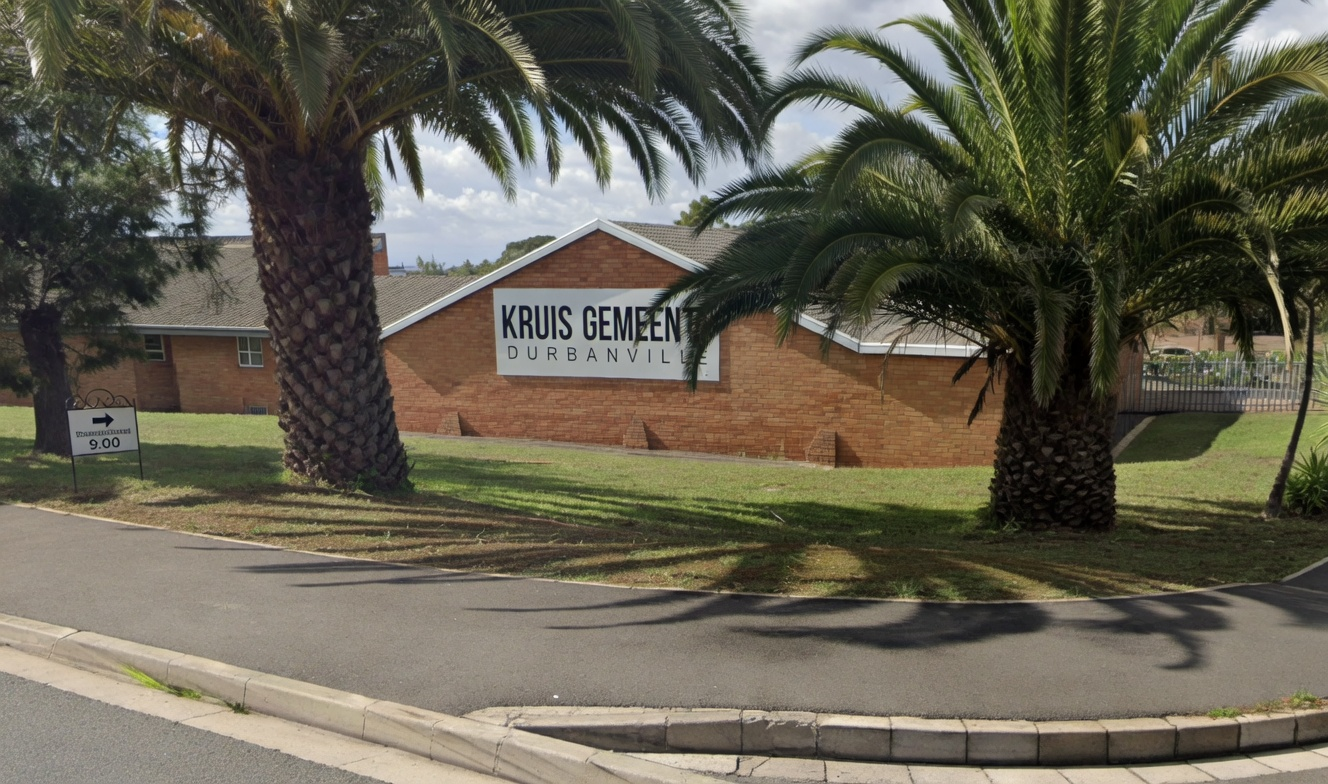
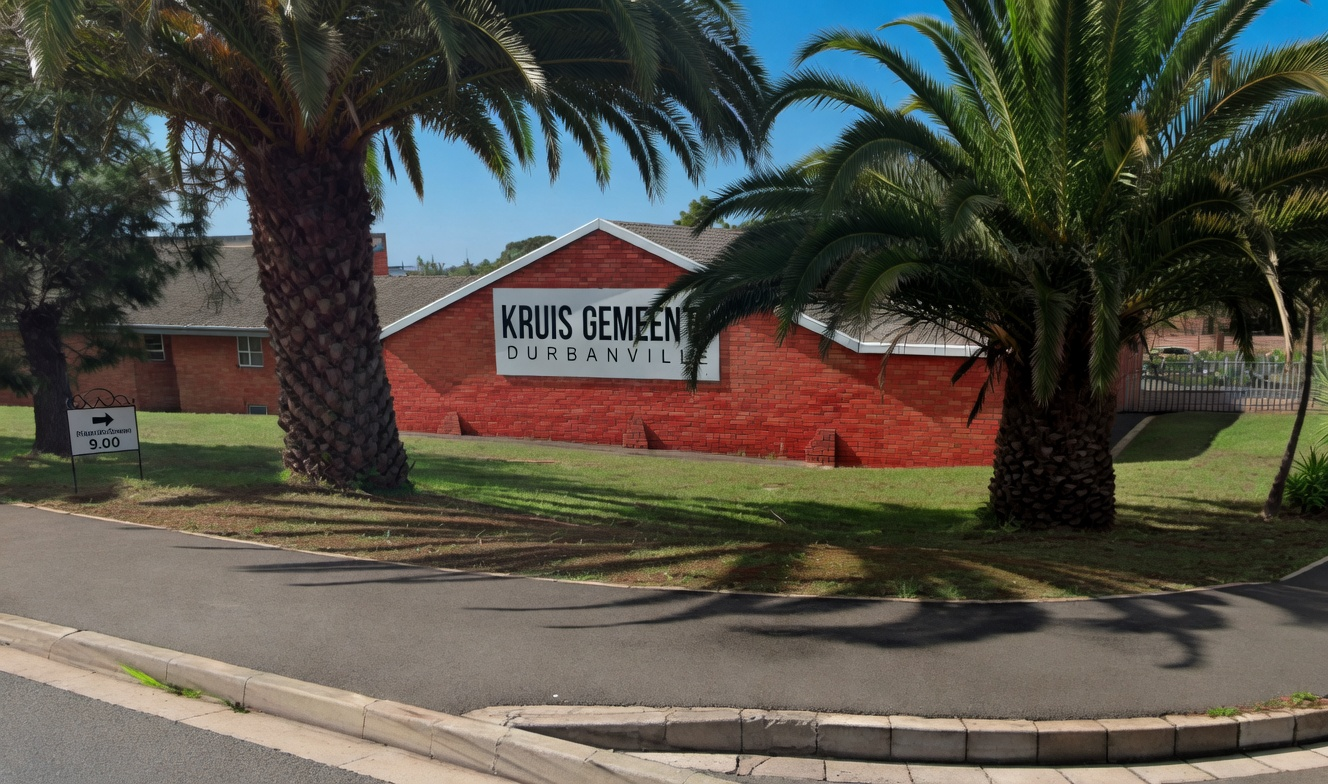
Hide other pages, play a cross when the book opens, and use cleaner church photos.

diff --git a/styles.css b/styles.css
@@ -70,10 +70,37 @@ button, input, textarea { font: inherit; }
 }
 .toc button:hover { color: var(--gold-2); }
 
+.intro {
+  position: fixed; inset: 0; z-index: 70;
+  background: #03050a;
+  display: grid; place-items: center;
+  gap: 28px; color: var(--gold-2);
+  text-align: center;
+}
+.intro[hidden] { display: none; }
+.cross-draw {
+  width: min(160px, 36vw); height: auto;
+  stroke: #e8c56a; stroke-width: 5; fill: none; stroke-linecap: square;
+  filter: drop-shadow(0 0 18px rgba(232,197,106,0.0));
+  stroke-dasharray: 320;
+  stroke-dashoffset: 320;
+}
+.intro.play .cross-draw {
+  animation: draw 1.6s ease forwards, crossglow 1.2s ease 1.2s forwards;
+}
+.intro p {
+  font-style: italic; font-size: 1.15rem; opacity: 0;
+}
+.intro.play p { animation: fadein 0.8s ease 1.3s forwards; }
+.intro.out { animation: fadeout 0.45s ease forwards; }
+@keyframes draw { to { stroke-dashoffset: 0; } }
+@keyframes crossglow { to { filter: drop-shadow(0 0 28px rgba(232,197,106,0.95)); } }
+@keyframes fadein { to { opacity: 1; } }
+@keyframes fadeout { to { opacity: 0; } }
+
 .stage {
   position: fixed; inset: 56px 0 68px;
   overflow: hidden;
-  perspective: 2600px;
   background: radial-gradient(900px 500px at 50% 0%, rgba(232,197,106,0.16), transparent 60%), #03050a;
 }
 #dust {
@@ -94,22 +121,46 @@ button, input, textarea { font: inherit; }
 .book {
   position: relative; z-index: 2;
   width: 100%; height: 100%;
-  transform-style: preserve-3d;
 }
 .leaf {
   position: absolute; inset: 0;
   width: 100%; height: 100%;
   overflow: auto;
   display: flex;
-  transform-origin: left center;
-  transform: rotateY(0deg);
-  transition: transform 1.05s cubic-bezier(0.77, 0, 0.18, 1);
-  backface-visibility: hidden;
-  box-shadow: 18px 0 60px rgba(0,0,0,0.35);
-}
-.leaf.flipped {
-  transform: rotateY(-180deg);
+  opacity: 0;
+  visibility: hidden;
   pointer-events: none;
+  z-index: 0;
+}
+.leaf.on {
+  opacity: 1;
+  visibility: visible;
+  pointer-events: auto;
+  z-index: 2;
+}
+.leaf.leave {
+  z-index: 3;
+  animation: leave 0.55s ease forwards;
+}
+.leaf.enter {
+  z-index: 4;
+  animation: enter 0.55s ease forwards;
+}
+.leaf.leave.back { animation-name: leaveBack; }
+.leaf.enter.back { animation-name: enterBack; }
+@keyframes leave {
+  to { opacity: 0; transform: translateX(-48px) scale(0.98); }
+}
+@keyframes enter {
+  from { opacity: 0; transform: translateX(56px) scale(0.98); }
+  to { opacity: 1; transform: none; }
+}
+@keyframes leaveBack {
+  to { opacity: 0; transform: translateX(48px) scale(0.98); }
+}
+@keyframes enterBack {
+  from { opacity: 0; transform: translateX(-56px) scale(0.98); }
+  to { opacity: 1; transform: none; }
 }
 
 .cover {
@@ -165,17 +216,7 @@ button, input, textarea { font: inherit; }
   font-family: var(--sans); font-size: 0.8rem; letter-spacing: 0.14em;
   margin: 18px 0 28px; color: rgba(247, 231, 180, 0.85);
 }
-.hint {
-  position: absolute; right: 0; bottom: 0; width: 72px; height: 72px;
-  background: linear-gradient(135deg, transparent 50%, rgba(232,197,106,0.55) 50%);
-  clip-path: polygon(100% 0, 0 100%, 100% 100%);
-  animation: peek 2.4s ease-in-out infinite;
-  z-index: 3;
-}
-@keyframes peek {
-  0%, 100% { opacity: 0.45; }
-  50% { opacity: 1; }
-}
+
 
 .spread { display: flex; width: 100%; }
 .page {
@@ -346,5 +387,6 @@ input:focus, textarea:focus { outline: 2px solid var(--gold); border-color: tran
   .leaf { transform-origin: center left; }
 }
 @media (prefers-reduced-motion: reduce) {
-  .leaf, .cover-art, .cover-inner, .glow, .hint, .time-clock, .cover h1, .page.left::after { animation: none; transition: none; }
+  .leaf, .cover-art, .cover-inner, .glow, .time-clock, .cover h1, .page.left::after, .cross-draw, .intro p { animation: none; transition: none; }
+  .cross-draw { stroke-dashoffset: 0; }
 }

diff --git a/index.html b/index.html
@@ -64,6 +64,14 @@
     <button type="button" data-go="8">IX. <span data-i18n="pWrite">Skryf</span></button>
   </nav>
 
+  <div class="intro" id="intro" hidden>
+    <svg class="cross-draw" viewBox="0 0 100 160" aria-hidden="true">
+      <line x1="50" y1="8" x2="50" y2="152" />
+      <line x1="16" y1="46" x2="84" y2="46" />
+    </svg>
+    <p data-i18n="coverSub">Jesus Christus, gekruisig en opgestaan</p>
+  </div>
+
   <div class="stage">
     <canvas id="dust"></canvas>
     <div class="glow"></div>
@@ -80,7 +88,6 @@
           <p class="cover-meta">Sondag 09:00 · Afrikaans · Vergesig</p>
           <button class="btn btn-gold" type="button" id="openBtn" data-i18n="openBtn">Maak die boek oop</button>
         </div>
-        <span class="hint" aria-hidden="true"></span>
       </section>
 
       <section class="leaf spread" data-leaf="1" id="woord">
@@ -354,17 +361,49 @@
     }
 
     const leaves = [...document.querySelectorAll(".leaf")];
-    function go(n) {
-      page = Math.max(0, Math.min(PAGES - 1, n));
-      leaves.forEach((el, i) => {
-        el.classList.toggle("flipped", i < page);
-        el.style.zIndex = String(i < page ? i : PAGES - i);
-        el.setAttribute("aria-hidden", i === page ? "false" : "true");
-      });
-      drawPager();
+    let turning = false;
+    function go(n, instant) {
+      n = Math.max(0, Math.min(PAGES - 1, n));
+      if (n === page && leaves[page].classList.contains("on")) return;
+      if (turning) return;
       toc.setAttribute("hidden", "");
-      const leaf = leaves[page];
-      if (leaf) leaf.scrollTop = 0;
+      const from = leaves[page];
+      const to = leaves[n];
+      if (instant || !from.classList.contains("on")) {
+        leaves.forEach((el) => el.classList.remove("on", "leave", "enter"));
+        to.classList.add("on");
+        page = n;
+        drawPager();
+        return;
+      }
+      turning = true;
+      const forward = n > page;
+      from.classList.add("leave");
+      from.classList.toggle("back", !forward);
+      to.classList.add("on", "enter");
+      to.classList.toggle("back", !forward);
+      to.scrollTop = 0;
+      setTimeout(() => {
+        from.classList.remove("on", "leave", "back");
+        to.classList.remove("enter", "back");
+        page = n;
+        turning = false;
+        drawPager();
+      }, 560);
+    }
+
+    function openBook() {
+      const intro = document.getElementById("intro");
+      intro.removeAttribute("hidden");
+      requestAnimationFrame(() => intro.classList.add("play"));
+      setTimeout(() => {
+        intro.classList.add("out");
+        go(1, true);
+        setTimeout(() => {
+          intro.setAttribute("hidden", "");
+          intro.classList.remove("play", "out");
+        }, 500);
+      }, 2200);
     }
 
     (function dust() {
@@ -406,7 +445,7 @@
       document.getElementById("next").disabled = page === PAGES - 1;
     }
 
-    document.getElementById("openBtn").addEventListener("click", () => go(1));
+    document.getElementById("openBtn").addEventListener("click", openBook);
     document.getElementById("prev").addEventListener("click", () => go(page - 1));
     document.getElementById("next").addEventListener("click", () => go(page + 1));
     document.getElementById("tocBtn").addEventListener("click", () => {
